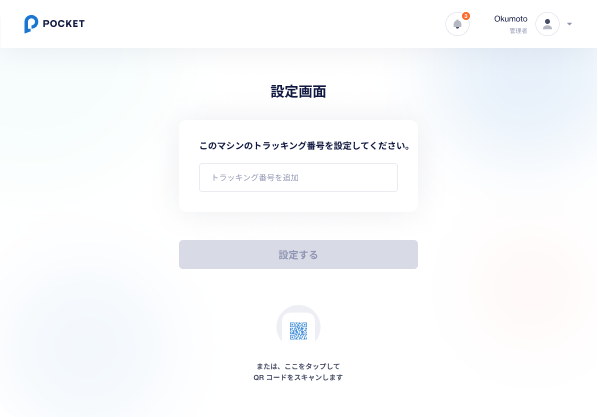
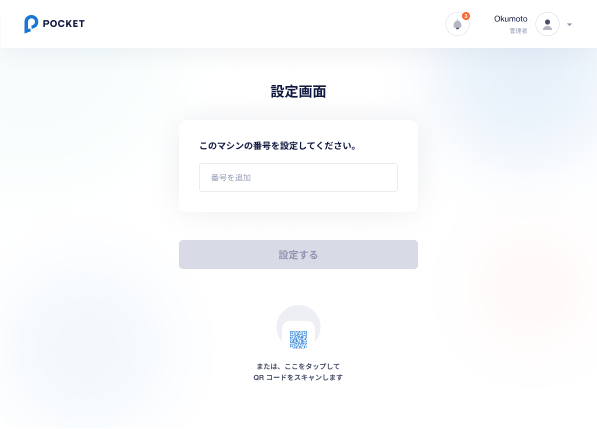
update

diff --git a/201.md b/201.md
@@ -88,7 +88,7 @@ INVALID QR CODE
 
 ### エラー一覧（Error List）
 
-## **動画ダウンロード中**   `Dowloading video`
+## **動画ダウンロード中**   `Downloading video`
 
 ![nf](image/jp/tb/201setting_machine/downloadingvideos.png)
 
@@ -98,17 +98,17 @@ INVALID QR CODE
 
 - go to **ダッシュボード**   `Dashboard`　screen
 
-##### ダウンロードした動画  ` Downloaded video`  ** Block**
+##### ダウンロードした動画  ` Downloaded video`  **Block**
 
 - Display downloaded video. The first video in the above image corresponds to the video already downloaded
 - inside this block, dislay video thumbnail, duration, title, description, tags of this video
 
-##### ダウンロードした動画  ` Downloading video`  ** Block**
+##### ダウンロードした動画  ` Downloading video`  **Block**
 
 - Display downloading video. The second video in the above image corresponds to the downloading video
 - inside this block, dislay video thumbnail, duration, title, description, tags of this video
 
-##### 動画のダウンロード中にエラーが発生しました  ` error during video download`  ** Block**
+##### 動画のダウンロード中にエラーが発生しました  ` error during video download`  **Block**
 
 - If the video downloads normally, this block will not be displayed
 - If there is a error during video download, then this block will be displayed
@@ -131,7 +131,7 @@ INVALID QR CODE
 
 - Enter Kiosk mode and go to **ホーム**   `Home` screen
 
-##### マシン番号変更  ` Change sequence number`  **Button**
+##### マシン番号を変更する  ` Change sequence number`  **Button**
 
 - If the result returned by api has a sequence number or sequence number is alrealdy set, then display this sequence number
 - The sequence number must be unique. If the sequence number is set on other device, then it will not be set again
@@ -140,5 +140,69 @@ INVALID QR CODE
 ##### 削除する  ` Delete`  **Button**
 
 - go to **動画削除確認**   `Video delete confirmation` screen
+
+### エラー一覧（Error List）
+
+## **マシンシーケンス番号入力**   `Enter machine sequence number`
+
+![nf](image/jp/tb/201setting_machine/ChangeSequenceNumber.png)
+
+### 項目／イベント定義（Item Event Definition）
+
+##### マシン番号  `Machine sequence number`  **Number**
+
+- required
+
+##### 設定する  `Setting`  **Button**
+
+- validate input info
+- disabled when input is empty
+- if response returns 200, then go to **マシン番号設定成功**   `Machine sequence number setting successful` screen
+
+### エラー一覧（Error List）
+
+#### 画面エラー（Screen Error）
+
+INVALID MACHINE NUMBER
+:   `入力した ID 番号が間違っています。この ID 番号のマシンは見つかりませんでした。もう一度やり直してください。`
+
+## **マシン番号設定成功**   `Machine sequence number setting successful` 
+
+![nf](image/jp/tb/201setting_machine/ChangeSequenceNumberSuccess.png)
+
+### 項目／イベント定義（Item Event Definition）
+
+##### 完了  `Done`  **Button**
+
+- go to **ダッシュボード**   `Dashboard`　screen
+
+### エラー一覧（Error List）
+
+## **動画削除確認**   `Video delete confirmation`
+
+![nf](image/jp/tb/201setting_machine/Delete.png)
+
+### 項目／イベント定義（Item Event Definition）
+
+##### 削除  `Delete video`  **Button**
+
+- delete all video of the seleted machine. If the videos has not been downloaded yet, stop the videos that is downloading and delete all downloaded videos
+- After deleting the video, go to this screen **動画削除成功**   `Video delete sucessful`
+
+##### キャンセル  `Cancel`  **Button**
+
+- back to **ダッシュボード**   `Dashboard`　screen
+
+### エラー一覧（Error List）
+
+## **動画削除成功**   `Video delete sucessful`
+
+![nf](image/jp/tb/201setting_machine/DeleteSuccess.png)
+
+### 項目／イベント定義（Item Event Definition）
+
+##### 設定画面へ  `Go to setting screen`  **Button**
+
+- go to **マシン番号入力**  `Enter machine number` and start setting again from scratch
 
 ### エラー一覧（Error List）

diff --git a/202.md b/202.md
@@ -8,7 +8,7 @@
 
 ##### ロゴ  `Logo`  **Icon button**
 
-- After tape continuously 7 times, then go to the **キオスクモード終了**   `Exit Kiosk mode` screen
+- After tape continuously 6 times, then go to the **キオスクモード終了**   `Exit Kiosk mode` screen
 - need to tape continuously for 3s, if stop more than 3s, it will be counted from the beginning
 
 ##### マシンに不具合があった場合はこちらをタップ  `Report machine issue`  **Button**
@@ -49,7 +49,7 @@
 
 #### 項目エラー（Item Error）
 
-##### パスワード  `Password`  ** Text**
+##### パスワード  `Password`  **Text**
 
 EMPTY
 :   `パスワードを入力してください。 これは必須です。`
@@ -164,7 +164,7 @@ INVALID PHONENUMBER OR PASSWORD
 - dislay video thumbnail, duration, title, description, tags
 - When user clicks on a video, it will play that video in fullscreen
 
-##### 動画再生  `Play Video`  ** Button**
+##### 動画再生  `Play Video`  **Button**
 
 - When user clicks on button, it will play that video in fullscreen
 
@@ -178,7 +178,7 @@ INVALID PHONENUMBER OR PASSWORD
 
 ### 項目／イベント定義（Item Event Definition）
 
-##### 動画フレーム  `Video Frame`  ** Frame**
+##### 動画フレーム  `Video Frame`  **Frame**
 
 - when user tap on video frame then it will show all video related buttons. 
 - If the buttons related to the video are showing on video frame, and user tap again then they will be hidden. If user don't do anything, the buttons will be hidden after 5s
@@ -203,12 +203,12 @@ INVALID PHONENUMBER OR PASSWORD
 
 - pause or play video. When user click pause button then pause video and change pause button to play button, and vice visar
 
-##### チャプター  `Chapter`  **  button**
+##### チャプター  `Chapter`  **button**
 
 - When user click on a chapter, it will move to the start time of that chapter
 - display up to 4 chapters on video frame.
 
-##### その他のチャプター  `Other Chapter`  ** Button**
+##### その他のチャプター  `Other Chapter`  **Button**
 
 - Open a div in the bottom of video frame which show other chapter. Can swipe to view other chapters if more than 4 chapters
 - When user click on a chapter, it will close div and move to the start time of that chapter
@@ -217,7 +217,7 @@ INVALID PHONENUMBER OR PASSWORD
 
 - Close a div in the bottom of video frame which show other chapter
 
-##### 字幕スイッチ  `On\off Subtitle`  ** button**
+##### 字幕スイッチ  `On\off Subtitle`  **button**
 
 - Turn on／off subtitle of video
 
@@ -225,10 +225,29 @@ INVALID PHONENUMBER OR PASSWORD
 
 ## **動画終了**   `End of video`
 
+![nf](image/jp/tb/202kiosk_mode_operation/OnVideoPlayCompleted.png)
+
+### 項目／イベント定義（Item Event Definition）
+
+##### 次の動画  `Next video`  ** Block**
+
+- Play next video. If the current video is the last on the list video, then the first video will be play
+- Contain video thumbnail, duration, title
+
+##### 再生  ` Replay video`  **button**
+
+- Replay video
+
+##### 終了  ` Close video`  **button**
+
+- Close video and back to the **動画一覧**   `Video list` screen
+
+### エラー一覧（Error List）
+
 ## **ストップウォッチ**   `Stop watch`
 
 ![nf](image/jp/tb/202kiosk_mode_operation/StopWatchStart.png)
-![nf](image/jp/tb/202kiosk_mode_operation/Stop WatchRun.png)
+![nf](image/jp/tb/202kiosk_mode_operation/StopWatchRun.png)
 
 ### 項目／イベント定義（Item Event Definition）
 
